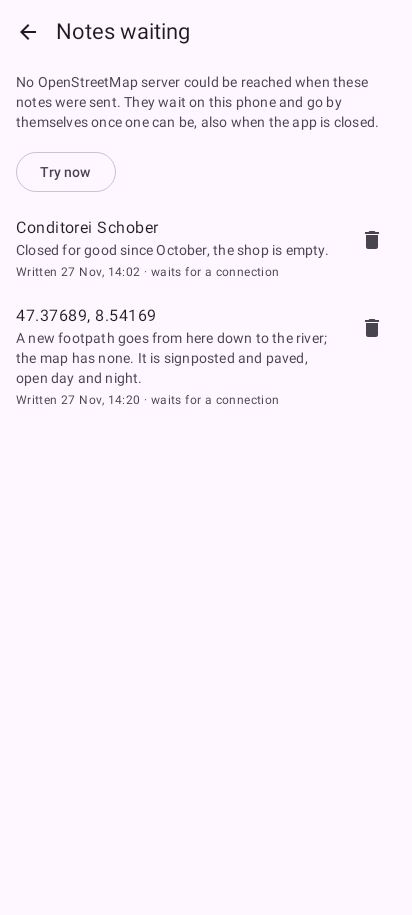
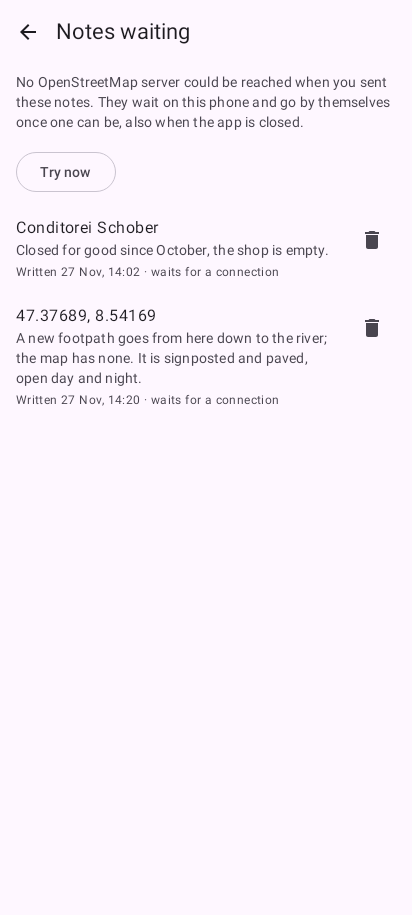
fix(osm): a round lists what the outbox holds, and the delete question does not come back by itself
Each round refreshes the kept notes from its own read, so notes a failed
start read missed are still sent (and the deleted-after-read check means
only that); the note being tried is kept as on its way. The delete dialog
closes for good when its note goes on its way. Wording: "when you sent
these notes", "Sending…" on the button too.

Changed region(s): [[0.0291, 0.0612, 0.9612, 0.153]]

diff --git a/androidApp/src/test/kotlin/to/pubky/maps/android/NotesWaitingTest.kt b/androidApp/src/test/kotlin/to/pubky/maps/android/NotesWaitingTest.kt
@@ -2,7 +2,12 @@ package to.pubky.maps.android
 
 import android.content.res.Configuration
 import androidx.compose.runtime.Composable
+import androidx.compose.runtime.getValue
+import androidx.compose.runtime.mutableStateOf
+import androidx.compose.runtime.setValue
+import androidx.compose.ui.test.assertCountEquals
 import androidx.compose.ui.test.junit4.createComposeRule
+import androidx.compose.ui.test.onAllNodesWithText
 import androidx.compose.ui.test.onNodeWithContentDescription
 import androidx.compose.ui.test.onNodeWithText
 import androidx.compose.ui.test.performClick
@@ -94,6 +99,38 @@ class NotesWaitingTest {
     }
 
     @Test
+    fun theQuestionGoesWhenItsNoteGoesOnItsWayAndDoesNotComeBack() {
+        var waiting by mutableStateOf(NotesWaiting(listOf(schober, pin)))
+        compose.setContent {
+            PubkyMapsTheme {
+                NotesWaitingScreen(waiting, onTryNow = {}, onDelete = { deleted += it }, onBack = {}, zone = zurich)
+            }
+        }
+        compose.onNodeWithContentDescription("Delete the note about Conditorei Schober").performClick()
+        compose.onNodeWithText("Delete this note?").assertExists()
+        waiting = waiting.copy(sending = "a")
+        compose.waitForIdle()
+        compose.onNodeWithText("Delete this note?").assertDoesNotExist()
+        // Its try reached no server: it waits again, and nobody asked to delete it.
+        waiting = waiting.copy(sending = null)
+        compose.waitForIdle()
+        compose.onNodeWithText("Delete this note?").assertDoesNotExist()
+        assertEquals(emptyList<String>(), deleted)
+    }
+
+    @Test
+    fun thePageSaysWhileTheNotesAreReadAndWhenNoneWaits() {
+        var waiting by mutableStateOf<NotesWaiting?>(null)
+        compose.setContent {
+            PubkyMapsTheme { NotesWaitingScreen(waiting, onTryNow = {}, onDelete = {}, onBack = {}, zone = zurich) }
+        }
+        compose.onNodeWithText("Reading the notes on this phone…").assertExists()
+        compose.onNodeWithText("Try now").assertDoesNotExist()
+        waiting = NotesWaiting(emptyList())
+        compose.onNodeWithText("No notes wait on this phone.", substring = true).assertExists()
+    }
+
+    @Test
     fun tryNowSendsTheNotesNow() {
         show(NotesWaiting(listOf(schober)))
         compose.onNodeWithText("Try now").performClick()
@@ -105,9 +142,23 @@ class NotesWaitingTest {
     fun aNoteOnItsWayCannotBeDeleted() {
         show(NotesWaiting(listOf(schober, pin), sending = "a"))
         compose.onNodeWithContentDescription("Delete the note about Conditorei Schober").assertDoesNotExist()
-        compose.onNodeWithText("Sending…").assertExists()
+        // The row and the button, which waits for the round.
+        compose.onAllNodesWithText("Sending…").assertCountEquals(2)
         compose.onNodeWithText("Try now").assertDoesNotExist()
         compose.onNodeWithContentDescription("Delete the note about 47.37689, 8.54169").assertExists()
+    }
+
+    @Test
+    fun settingsHasAnOfflineGroupForWaitingNotesAlsoWithoutOfflineMaps() {
+        var notes by mutableStateOf<String?>(null)
+        compose.setContent {
+            PubkyMapsTheme { Settings(notes, offlineMaps = null) }
+        }
+        compose.onNodeWithText("Notes waiting").assertDoesNotExist()
+        compose.onNodeWithText("Offline").assertDoesNotExist()
+        notes = notesWaitingSummary(NotesWaiting(listOf(schober)))
+        compose.onNodeWithText("Offline").assertExists()
+        compose.onNodeWithText("Notes waiting").assertExists()
     }
 
     @Test
@@ -127,6 +178,7 @@ class NotesWaitingTest {
     private fun Settings(
         notesWaiting: String?,
         onOpen: () -> Unit = {},
+        offlineMaps: String? = "2 areas on this phone.",
     ) = SettingsScreen(
         appInfo = AppInfo(versionName = "0.1.0-edge.11", versionCode = 1_000_011),
         settings = AppSettings(),
@@ -136,7 +188,7 @@ class NotesWaitingTest {
         onFollowLocalRulesChange = {},
         onOpenLicences = {},
         onBack = {},
-        offlineMaps = "2 areas on this phone.",
+        offlineMaps = offlineMaps,
         notesWaiting = notesWaiting,
         onOpenNotesWaiting = onOpen,
     )

diff --git a/shared/src/commonTest/kotlin/to/pubky/maps/osm/NoteControllerTest.kt b/shared/src/commonTest/kotlin/to/pubky/maps/osm/NoteControllerTest.kt
@@ -54,7 +54,16 @@ class NoteControllerTest {
         val notes = kept.toMutableList()
         var failPut = false
 
-        override fun waiting(): List<WaitingNote> = notes.sortedBy { it.writtenAt }
+        /** Reads that fail before the outbox answers, as a phone's storage may once. */
+        var failReads = 0
+
+        override fun waiting(): List<WaitingNote> {
+            if (failReads > 0) {
+                failReads--
+                error("disk busy")
+            }
+            return notes.sortedBy { it.writtenAt }
+        }
 
         override fun put(note: WaitingNote) {
             if (failPut) error("disk full")
@@ -416,7 +425,7 @@ class NoteControllerTest {
             runCurrent()
             // A note whose try the app stopped in may be on the map: it is not listed as waiting.
             assertEquals(
-                NotesWaiting(listOf(waiting("a", "First.", 10), waiting("b", "Second.", 20)), sending = "a"),
+                NotesWaiting(listOf(waiting("a", "First.", 10).copy(onItsWay = true), waiting("b", "Second.", 20)), sending = "a"),
                 controller.notesWaiting.value,
             )
             notes.hold!!.complete(Unit)
@@ -507,5 +516,55 @@ class NoteControllerTest {
                     .map { it.id },
             )
             assertEquals(true, controller.waiting.value)
+        }
+
+    @Test
+    fun notesTheStartCouldNotReadAreListedAndGoInALaterRound() =
+        runTest {
+            val notes = FakeNotes(NoteAnswer.Sent)
+            val outbox = FakeOutbox(waiting("a", "Closed.", 10)).apply { failReads = 2 }
+            val controller = controller(notes, outbox)
+            runCurrent()
+            assertEquals(emptyList(), notes.texts)
+            controller.flush()
+            runCurrent()
+            assertEquals(listOf("Closed."), notes.texts)
+            assertEquals(emptyList(), outbox.notes)
+        }
+
+    @Test
+    fun deletingTheLastNoteLeavesNothingWaiting() =
+        runTest {
+            val outbox = FakeOutbox(waiting("a", "Closed.", 10))
+            val controller = controller(FakeNotes(NoteAnswer.Unreachable), outbox)
+            runCurrent()
+            assertEquals(true, controller.waiting.value)
+            controller.withdraw("a")
+            runCurrent()
+            assertEquals(false, controller.waiting.value)
+            assertEquals(NotesWaiting(emptyList()), controller.notesWaiting.value)
+        }
+
+    @Test
+    fun aNoteThatCouldNotBeUnmarkedIsListedAsWaitingAndCanBeDeleted() =
+        runTest {
+            val notes = FakeNotes(NoteAnswer.Unreachable)
+            val outbox = FakeOutbox(waiting("a", "Closed.", 10)).apply { failUnmark = true }
+            val controller = controller(notes, outbox)
+            runCurrent()
+            // Read again by the next round, it is still marked on the phone, but it reached no server.
+            controller.flush()
+            outbox.failMark = true
+            runCurrent()
+            assertEquals(
+                listOf("a"),
+                controller.notesWaiting.value!!
+                    .notes
+                    .map { it.id },
+            )
+            controller.withdraw("a")
+            runCurrent()
+            assertEquals(emptyList(), outbox.notes)
+            assertEquals(false, controller.waiting.value)
         }
 }

diff --git a/shared/src/commonMain/kotlin/to/pubky/maps/osm/NotesWaitingScreen.kt b/shared/src/commonMain/kotlin/to/pubky/maps/osm/NotesWaitingScreen.kt
@@ -11,6 +11,7 @@ import androidx.compose.material3.OutlinedButton
 import androidx.compose.material3.Text
 import androidx.compose.material3.TextButton
 import androidx.compose.runtime.Composable
+import androidx.compose.runtime.LaunchedEffect
 import androidx.compose.runtime.getValue
 import androidx.compose.runtime.mutableStateOf
 import androidx.compose.runtime.saveable.rememberSaveable
@@ -67,7 +68,7 @@ fun NotesWaitingScreen(
             else -> {
                 item {
                     PageIntro(
-                        "No OpenStreetMap server could be reached when these notes were sent. They wait on this phone and go " +
+                        "No OpenStreetMap server could be reached when you sent these notes. They wait on this phone and go " +
                             "by themselves once one can be, also when the app is closed.",
                     )
                 }
@@ -76,7 +77,7 @@ fun NotesWaitingScreen(
                         onClick = onTryNow,
                         enabled = waiting.sending == null,
                         modifier = Modifier.padding(horizontal = 16.dp, vertical = 8.dp),
-                    ) { Text(if (waiting.sending == null) "Try now" else "Sending") }
+                    ) { Text(if (waiting.sending == null) "Try now" else "Sending…") }
                 }
                 for (note in notes) {
                     item(key = note.id) {
@@ -87,6 +88,9 @@ fun NotesWaitingScreen(
         }
     }
     val confirming = waiting?.notes?.firstOrNull { it.id == deleting && it.id != waiting.sending }
+    // A note that went on its way or left while asked about is no longer asked about: the question
+    // does not come back by itself once its try reached no server.
+    LaunchedEffect(confirming == null) { if (confirming == null) deleting = null }
     if (confirming != null) {
         AlertDialog(
             onDismissRequest = { deleting = null },

diff --git a/shared/src/commonMain/kotlin/to/pubky/maps/osm/NoteController.kt b/shared/src/commonMain/kotlin/to/pubky/maps/osm/NoteController.kt
@@ -194,17 +194,27 @@ class NoteController(
     }
 
     private suspend fun sendWaiting(box: NoteOutbox) {
-        val (mayBeSent, waiting) = outboxLock.withLock { read(box) }.partition { it.onItsWay && it.id !in notTried }
+        val read =
+            outboxLock.withLock {
+                // What the phone holds now: also notes an earlier read failed to see. A note missing
+                // from [kept] below was deleted by the user after this read.
+                onDisk { box.waiting() }?.also {
+                    kept = it
+                    publish()
+                } ?: emptyList()
+            }
+        val (mayBeSent, waiting) = read.partition { it.onItsWay && it.id !in notTried }
         for (note in mayBeSent) settle(box, note, NoteAnswer.NoAnswer.takeUnless { note.id in settled })
         for (note in waiting) {
             val marked =
                 outboxLock.withLock {
                     // The user deleted it after this round read the outbox.
                     if (kept.none { it.id == note.id }) return@withLock false
-                    (onDisk { box.setOnItsWay(note.id, true) } != null).also {
-                        if (it) {
+                    (onDisk { box.setOnItsWay(note.id, true) } != null).also { done ->
+                        if (done) {
                             notTried = notTried - note.id
                             trying = note.id
+                            kept = kept.map { if (it.id == note.id) it.copy(onItsWay = true) else it }
                             publish()
                         }
                     }
